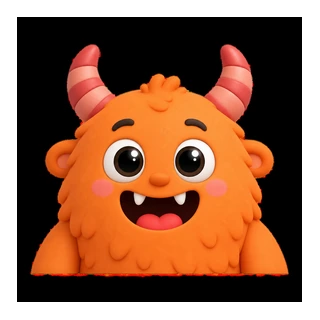
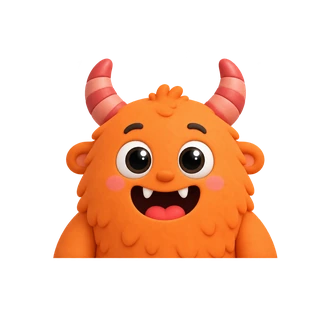
fix: cutout 不該用在已去背的母檔，頭像整片變成不透明黑底
cutout() 是為 landing 那批「白底 PNG」寫的：第一行 convert("RGB") 就丟掉原有
alpha，再找與邊緣相連的白色區塊當背景。對已經去背的透明 PNG 跑它是破壞性的 ——
透明區轉 RGB 後變成黑色，白色偵測找不到背景，於是 alpha 全填 255。

balance() 那條路徑一律先跑 cutout()，而 avatars 走的正是這條；auth / profile 走
build_trimmed 不經過它，所以登入頁的怪獸一直正常，只有頭像出事。

spec 現在支援 cutout: false，已去背的母檔直接讀 RGBA。判準是母檔本身：
白底 → 要 cutout，已透明 → cutout: false。

    修正前  alpha=0 17.3%  alpha=255 82.7%  中間  0.0%
    修正後  alpha=0 65.4%  alpha=255  0.7%  中間 33.9%

中間值就是抗鋸齒邊緣，被 cutout 二值化掉了，所以檔案也大了約 4KB。

順帶記下兩個 dev 才會遇到的陷阱：Next 的圖片優化快取不會因為來源檔案改變而
失效（要 rm -rf .next/dev/cache/images）；優化端點依 Accept 協商格式，用 curl
不帶 header 會拿到沒有 alpha 的 JPEG。

diff --git a/assets/tools/build_icons.py b/assets/tools/build_icons.py
@@ -89,8 +89,9 @@ TESTIMONIALS = {
 # 個人首頁的怪獸頭像 —— 10 隻對話夥伴 + 本人。
 # 這組**要**進 balance：它們是並排在卡片格狀裡的，寬高比差異會直接變成
 # 視覺上的大小不一。揮手的 Bobby / Tao 內容框是 1.3 的橫向，其餘都接近正方形。
+# cutout=False：母檔已經是去背的透明 PNG，再跑一次白底去背會把它毀掉
 AVATARS = {
-	f"avatar-{name}": dict(src=f"avatars/{name}.png")
+	f"avatar-{name}": dict(src=f"avatars/{name}.png", cutout=False)
 	for name in ("allen", "alex", "bobby", "leo", "luna", "mia", "nina", "ryan", "sunny",
 	             "tao", "yuki")
 }
@@ -158,7 +159,12 @@ def build(group_name):
 
 	prepared = {}
 	for name, spec in specs.items():
-		image = cutout(SOURCE / spec["src"])
+		src = SOURCE / spec["src"]
+		# ⚠ cutout 是為「白底 PNG」寫的：它會先 convert("RGB") 丟掉原有 alpha，
+		#    再找與邊緣相連的白色區塊當背景。對**已經去背**的母檔跑它是破壞性的 ——
+		#    透明區轉 RGB 後變成黑色，白色偵測找不到背景，於是 alpha 全給 255，
+		#    整張圖變成不透明的黑底（2026-08-27 頭像踩到）。
+		image = Image.open(src).convert("RGBA") if spec.get("cutout") is False else cutout(src)
 		if "recolor" in spec:
 			image = recolor(image, **spec["recolor"])
 		prepared[name] = image

diff --git a/.claude/memory/frontend-build-state.md b/.claude/memory/frontend-build-state.md
@@ -45,6 +45,14 @@ metadata:
 - **品牌 logo 不走 icon library**：Google / Apple 要內嵌官方彩色 SVG。
   Font Awesome brands 是單色字形，不符 Google 品牌規範，設計稿也是彩色的
 - **格式判準**：扁平可縮放的小圖示 → SVG；有漸層質感的插圖 → WebP（實測描邊 SVG 613KB/31色 vs WebP 34KB/48948色）
+- ⚠ **Next dev 的圖片優化快取不會因為來源檔案改變而失效**（2026-08-27 踩過）。
+  改了 `public/images/` 的圖、重跑 build_icons，畫面卻還是舊的 —— 回應帶
+  `X-Nextjs-Cache: HIT`。要 `rm -rf apps/web/.next/dev/cache/images` 才會重新編碼，
+  瀏覽器那份還要再硬重新整理。**上線不會遇到**：`GITHUB_PAGES=true` 走
+  `images.unoptimized`，圖片直接從 public/ 出去，沒有這層快取
+- ⚠ **dev 的圖片優化端點會依 `Accept` 協商格式**。用 curl 不帶 header 測會拿到
+  **JPEG（沒有 alpha，透明區變黑）**，那是測試方式的問題不是圖的問題；
+  瀏覽器一定會送 `image/webp`
 - **靜態匯出只在 `GITHUB_PAGES=true` 時啟用**，本機 dev 不受影響。
   `src/asset.ts` 替 public/ 圖片補 basePath —— `images.unoptimized` 後 `next/image`
   不會自己改寫 src，少了它靜態站上每張圖都 404 而本機看不出來
@@ -53,15 +61,21 @@ metadata:
 
 ## 待辦
 
-0. **下一步：個人主頁**（2026-08-23 使用者指定）。
-   `/[lang]/home` 目前是 placeholder，登入後轉導過去；設計稿在
-   `assets/design/個人主頁.jpg`。⚠ 該頁沒有任何存取保護，登入是假的
-   （見 `AuthForm` 的 `FAKE_AUTH`），直接打網址就能進
+0. **下一步：個人首頁的 My Schedule 週曆**。骨架與側邊欄已完成（be1f453），
+   見 [[profile-page-state]]。週曆決定**自己畫不用套件** —— 沒有事件重疊，
+   套件最主要的價值用不到；30 分鐘粒度用 CSS Grid 的 `grid-row: span N` 直接對應
+   ⚠ `/[lang]/home` 沒有任何存取保護，登入是假的（見 `AuthForm` 的 `FAKE_AUTH`），
+   直接打網址就能進
 0.5 登入 / 註冊頁**已完成**（見 [[auth-pages-state]]），
    與設計稿仍有落差清單未處理，最大一項是 Log in / Sign up 分頁切換
    —— 它會動到「兩個獨立路由 vs 單頁切換」的結構
 1. Nav 的「MonsterTalk」字重 — 現 Nunito 800，UI kit 有 5 組對照待挑
-2. 產品命名 MonsterTalk 為暫定，Logo 檔仍是 ME 識別，兩者不相容
+2. **【延後到最後】**（2026-08-27 使用者指定，不影響目前進度）產品命名 MonsterTalk
+   為暫定，Logo 檔仍是 ME 識別，兩者不相容。個人首頁側邊欄現在用 MonsterTalk，
+   設計稿是「ME / Mandarin × English」—— 定案後只需改 `BrandBlock.tsx` 一個檔案
+2.5 **【延後到最後】`.arc-top` 的程式碼與本檔記載對不上**：globals.css 實際是
+   `clamp(14px, 1.9vw, 44px)`，但下方「關鍵決策」記著已改成 5vw、1.9vw 是量錯的。
+   **碰 landing 前要先釐清哪個才對**，別照著錯的那份改
 3. **上線前換掉假數據**（`grep "FAKE_"`）
 4. Cloudflare Pages 為原訂方案（proxy.ts 能跑、Image 最佳化在），目前先走 GitHub Pages
 

diff --git a/.claude/memory/asset-pipeline.md b/.claude/memory/asset-pipeline.md
@@ -55,3 +55,21 @@ metadata:
 
 ⚠ `trim()` 的 `alpha_floor` 預設 **8** 不是 0 —— AI 出圖邊緣常有一圈 alpha 1~5 的
 雜訊，照 0 去裁會多留十幾 px 空邊，之後絕對定位就對不準。
+
+## ⚠ cutout() 只能用在「白底」母檔（2026-08-27 踩過）
+
+`cutout()` 第一行就是 `Image.open(path).convert("RGB")` —— **丟掉原有的 alpha**，
+接著找「與邊緣相連的白色區塊」當背景。對**已經去背**的透明 PNG 跑它是破壞性的：
+透明區轉 RGB 後變成黑色，白色偵測找不到背景，於是 `alpha` 全填 255，
+整張圖變成**不透明的黑底**。
+
+⚠ `balance()` 那條路徑**一律先跑 `cutout()`**。所以已去背的母檔進 balance 群組時，
+spec 必須帶 **`cutout: False`**（頭像那 11 張就是這樣）。
+走 `build_trimmed` 的群組（auth / profile）不經過 cutout，不受影響 ——
+這也是為什麼登入頁的怪獸一直正常、只有頭像出事。
+
+判準：**母檔是白底 → 要 cutout；母檔已透明 → `cutout: False`。**
+
+診斷方式：合成到白底看是不是黑的，或看 alpha 直方圖 ——
+被 cutout 毀掉的圖會是「只有 0 與 255、沒有中間值」，
+正常的去背圖會有 30% 上下的半透明像素（那是抗鋸齒邊緣）。
